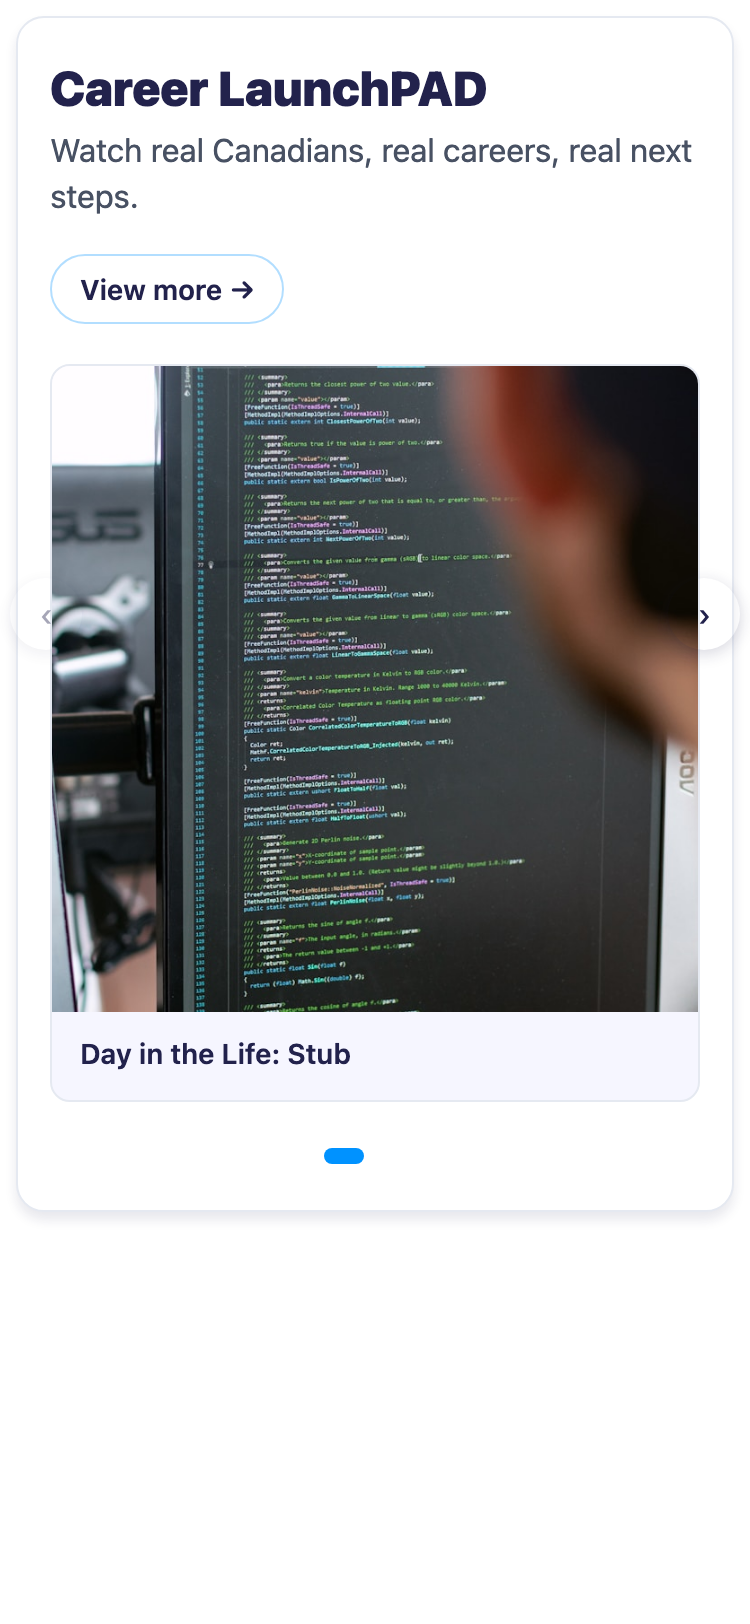
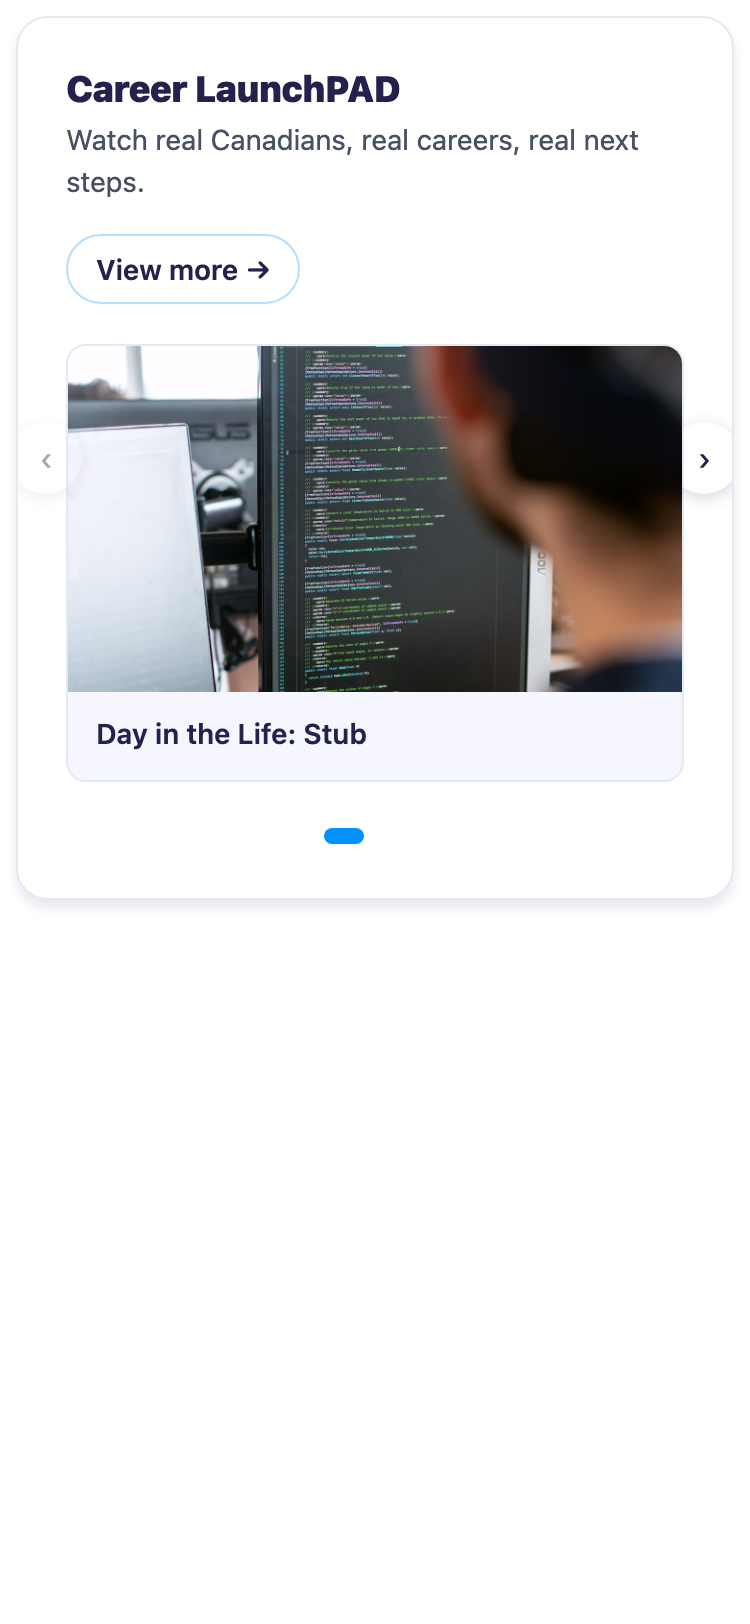
feat: make widget responsive — container queries, fluid type, configurable card aspect
Reverts card image aspect to 16:9 to fit dashboard reference (1309x336);
QR card letterboxes into the same 16:9 frame via a new .cl-card__media wrapper.
Adds container-type: inline-size + @container queries so the widget reacts to
its slot, not the viewport. Viewport @media fallback for older Safari via
@supports gating.
Header typography becomes fluid via clamp() + cqi units.
Exposes three CSS custom properties (--cl-card-aspect, --cl-max-height,
--cl-min-card-width) so the host can tune without editing widget internals.

diff --git a/docs/handoffs/myblueprint-widget/career-launchpad-widget.html b/docs/handoffs/myblueprint-widget/career-launchpad-widget.html
@@ -84,6 +84,13 @@
       color: #22224c;                    /* anchor-navy */
       max-width: 1200px;
       margin: 0 auto;
+      container-type: inline-size;
+      container-name: clw;
+      --cl-card-aspect: 16 / 9;
+      --cl-max-height: none;
+      --cl-min-card-width: 220px;
+      max-height: var(--cl-max-height);
+      overflow: hidden;
     }
 
     /* === Header === */
@@ -100,7 +107,7 @@
     }
     .cl-widget__header h2 {
       margin: 0 0 4px 0;
-      font-size: 24px;
+      font-size: clamp(18px, 1.5cqi + 12px, 24px);
       font-weight: 900;
       letter-spacing: -0.005em;
       line-height: 1.3;
@@ -108,7 +115,7 @@
     }
     .cl-widget__header p {
       margin: 0;
-      font-size: 16px;
+      font-size: clamp(14px, 1cqi + 10px, 16px);
       color: #485163;                    /* slate-ink */
       line-height: 1.45;
     }
@@ -158,16 +165,26 @@
     }
     .cl-card img {
       width: 100%;
-      aspect-ratio: 1 / 1;
+      aspect-ratio: var(--cl-card-aspect);
       object-fit: cover;
       display: block;
       background: #e5e9f1;               /* slate-frame-light placeholder while loading */
     }
-    .cl-card--qr img {
+    .cl-card--qr .cl-card__media {
+      aspect-ratio: var(--cl-card-aspect);
+      display: flex;
+      align-items: center;
+      justify-content: center;
+      background: #ffffff;               /* pure-white for QR contrast */
+      overflow: hidden;
+    }
+    .cl-card--qr .cl-card__media img {
+      height: 100%;
+      width: auto;
       aspect-ratio: 1 / 1;
       object-fit: contain;
-      padding: 16px;
-      background: #ffffff;               /* pure-white for QR contrast */
+      padding: 8px;
+      background: #ffffff;
     }
     .cl-card__label {
       display: block;
@@ -198,96 +215,194 @@
       border: 0;
     }
 
-    /* === Mobile (<768px) === */
-    @media (max-width: 767.98px) {
-      .cl-widget {
-        padding: 20px 16px;
-        border-radius: 14px;
+    /* === Layout switch: container-query path (Chrome 105+, Safari 16+, Firefox 110+) === */
+    @supports (container-type: inline-size) {
+      @container clw (max-width: 600px) {
+        .cl-widget {
+          padding: 20px 16px;
+          border-radius: 14px;
+        }
+
+        .cl-widget__track {
+          display: flex;
+          grid-template-columns: none;
+          gap: 0;
+          overflow-x: auto;
+          overflow-y: hidden;
+          scroll-snap-type: x mandatory;
+          scroll-behavior: smooth;
+          -webkit-overflow-scrolling: touch;
+          scrollbar-width: none;
+          margin: 0 -16px;
+          padding: 0 16px;
+        }
+        .cl-widget__track::-webkit-scrollbar {
+          display: none;
+        }
+
+        .cl-card {
+          flex: 0 0 100%;
+          scroll-snap-align: center;
+          scroll-snap-stop: always;
+        }
+
+        /* Show controls on narrow container.
+           The arrows overhang the card edges (matching the design mock); they are
+           absolutely positioned and vertically centered against the card image
+           area. The dots row sits below the card on its own line. */
+        .cl-widget__controls {
+          display: block;
+          margin-top: 16px;
+          text-align: center;
+        }
+
+        .cl-arrow {
+          position: absolute;
+          top: 50%;
+          transform: translateY(-50%);
+          width: 36px;
+          height: 36px;
+          border-radius: 50%;
+          background: #0092ff;             /* signal-blue */
+          color: #ffffff;
+          font-size: 20px;
+          line-height: 1;
+          display: inline-flex;
+          align-items: center;
+          justify-content: center;
+          box-shadow: 0 2px 8px rgba(34, 34, 76, 0.18);
+          z-index: 2;
+          transition: opacity 120ms ease, background-color 120ms ease;
+        }
+        .cl-arrow--prev {
+          left: -4px;                      /* overhangs the section's left edge */
+        }
+        .cl-arrow--next {
+          right: -4px;                     /* overhangs the section's right edge */
+        }
+        .cl-arrow:hover:not([disabled]) {
+          background: #0082e5;             /* signal-blue-deep */
+        }
+
+        .cl-dots {
+          display: inline-flex;
+          justify-content: center;
+          gap: 8px;
+        }
+        .cl-dot {
+          width: 8px;
+          height: 8px;
+          border-radius: 50%;
+          background: #aab7cb;             /* slate-echo */
+          transition: background-color 120ms ease, width 120ms ease;
+        }
       }
 
-      .cl-widget__track {
-        display: flex;
-        grid-template-columns: none;
-        gap: 0;
-        overflow-x: auto;
-        overflow-y: hidden;
-        scroll-snap-type: x mandatory;
-        scroll-behavior: smooth;
-        -webkit-overflow-scrolling: touch;
-        scrollbar-width: none;
-        margin: 0 -16px;
-        padding: 0 16px;
-      }
-      .cl-widget__track::-webkit-scrollbar {
-        display: none;
-      }
-
-      .cl-card {
-        flex: 0 0 100%;
-        scroll-snap-align: center;
-        scroll-snap-stop: always;
-      }
-
-      /* Show controls on mobile.
-         The arrows overhang the card edges (matching the design mock); they are
-         absolutely positioned and vertically centered against the card image
-         area. The dots row sits below the card on its own line. */
-      .cl-widget__controls {
-        display: block;
-        margin-top: 16px;
-        text-align: center;
-      }
-
-      .cl-arrow {
-        position: absolute;
-        top: 50%;
-        transform: translateY(-50%);
-        width: 36px;
-        height: 36px;
-        border-radius: 50%;
-        background: #0092ff;             /* signal-blue */
-        color: #ffffff;
-        font-size: 20px;
-        line-height: 1;
-        display: inline-flex;
-        align-items: center;
-        justify-content: center;
-        box-shadow: 0 2px 8px rgba(34, 34, 76, 0.18);
-        z-index: 2;
-        transition: opacity 120ms ease, background-color 120ms ease;
-      }
-      .cl-arrow--prev {
-        left: -4px;                      /* overhangs the section's left edge */
-      }
-      .cl-arrow--next {
-        right: -4px;                     /* overhangs the section's right edge */
-      }
-      .cl-arrow:hover:not([disabled]) {
-        background: #0082e5;             /* signal-blue-deep */
-      }
-
-      .cl-dots {
-        display: inline-flex;
-        justify-content: center;
-        gap: 8px;
-      }
-      .cl-dot {
-        width: 8px;
-        height: 8px;
-        border-radius: 50%;
-        background: #aab7cb;             /* slate-echo */
-        transition: background-color 120ms ease, width 120ms ease;
+      /* === Narrow container (<380px) — stack the header View-more button below the text === */
+      @container clw (max-width: 380px) {
+        .cl-widget__header {
+          flex-direction: column;
+          align-items: stretch;
+        }
+        .cl-widget__more {
+          align-self: flex-start;
+        }
       }
     }
 
-    /* === Narrow mobile (<480px) — stack the header View-more button below the text === */
-    @media (max-width: 479.98px) {
-      .cl-widget__header {
-        flex-direction: column;
-        align-items: stretch;
+    /* === Layout switch: viewport-query fallback (older Safari without container query support) === */
+    @supports not (container-type: inline-size) {
+      /* === Mobile (<768px) === */
+      @media (max-width: 767.98px) {
+        .cl-widget {
+          padding: 20px 16px;
+          border-radius: 14px;
+        }
+
+        .cl-widget__track {
+          display: flex;
+          grid-template-columns: none;
+          gap: 0;
+          overflow-x: auto;
+          overflow-y: hidden;
+          scroll-snap-type: x mandatory;
+          scroll-behavior: smooth;
+          -webkit-overflow-scrolling: touch;
+          scrollbar-width: none;
+          margin: 0 -16px;
+          padding: 0 16px;
+        }
+        .cl-widget__track::-webkit-scrollbar {
+          display: none;
+        }
+
+        .cl-card {
+          flex: 0 0 100%;
+          scroll-snap-align: center;
+          scroll-snap-stop: always;
+        }
+
+        /* Show controls on mobile.
+           The arrows overhang the card edges (matching the design mock); they are
+           absolutely positioned and vertically centered against the card image
+           area. The dots row sits below the card on its own line. */
+        .cl-widget__controls {
+          display: block;
+          margin-top: 16px;
+          text-align: center;
+        }
+
+        .cl-arrow {
+          position: absolute;
+          top: 50%;
+          transform: translateY(-50%);
+          width: 36px;
+          height: 36px;
+          border-radius: 50%;
+          background: #0092ff;             /* signal-blue */
+          color: #ffffff;
+          font-size: 20px;
+          line-height: 1;
+          display: inline-flex;
+          align-items: center;
+          justify-content: center;
+          box-shadow: 0 2px 8px rgba(34, 34, 76, 0.18);
+          z-index: 2;
+          transition: opacity 120ms ease, background-color 120ms ease;
+        }
+        .cl-arrow--prev {
+          left: -4px;                      /* overhangs the section's left edge */
+        }
+        .cl-arrow--next {
+          right: -4px;                     /* overhangs the section's right edge */
+        }
+        .cl-arrow:hover:not([disabled]) {
+          background: #0082e5;             /* signal-blue-deep */
+        }
+
+        .cl-dots {
+          display: inline-flex;
+          justify-content: center;
+          gap: 8px;
+        }
+        .cl-dot {
+          width: 8px;
+          height: 8px;
+          border-radius: 50%;
+          background: #aab7cb;             /* slate-echo */
+          transition: background-color 120ms ease, width 120ms ease;
+        }
       }
-      .cl-widget__more {
-        align-self: flex-start;
+
+      /* === Narrow mobile (<480px) — stack the header View-more button below the text === */
+      @media (max-width: 479.98px) {
+        .cl-widget__header {
+          flex-direction: column;
+          align-items: stretch;
+        }
+        .cl-widget__more {
+          align-self: flex-start;
+        }
       }
     }
 
@@ -368,8 +483,10 @@
       </li>
       <li class="cl-card cl-card--qr">
         <a href="https://career-launchpad-woad.vercel.app/?utm_source=myblueprint&amp;utm_medium=widget&amp;utm_campaign=career-launchpad-v1&amp;utm_content=qr-handoff" target="_blank" rel="noopener noreferrer">
[1 lines of base64/hex data omitted]
+          <div class="cl-card__media">
[1 lines of base64/hex data omitted]
                alt="QR code linking to Career LaunchPAD. URL: https://career-launchpad-woad.vercel.app/?utm_source=myblueprint&amp;utm_medium=widget&amp;utm_campaign=career-launchpad-v1&amp;utm_content=qr-handoff — scan or open on your phone to continue.">
+          </div>
           <span class="cl-card__label">Take it to your phone</span>
         </a>
       </li>

diff --git a/docs/handoffs/myblueprint-widget/README.md b/docs/handoffs/myblueprint-widget/README.md
@@ -40,6 +40,29 @@ On the myBlueprint student dashboard:
    CDN URLs. The actual image files for swapping are committed in this directory
    under `assets/`.
 
+## Integration knobs (CSS custom properties)
+
+The widget exposes three CSS custom properties on `.cl-widget` so you can tune it to your host slot without editing widget internals:
+
+| Property | Default | Purpose |
+|---|---|---|
+| `--cl-card-aspect` | `16 / 9` | Image aspect ratio for image cards; the QR card letterboxes to match. Set to `1 / 1` for square cards, `4 / 3` for taller, etc. |
+| `--cl-max-height` | `none` | Hard cap on the widget's height. If your slot pins a height, set this and the widget clips cleanly via `overflow: hidden`. |
+| `--cl-min-card-width` | `220px` | Documentation of the intended minimum card width before carousel mode kicks in. The actual breakpoint (`<600px` container width) is set in CSS. |
+
+Example override at the host level:
+
+```css
+.activitiesWidget .cl-widget {
+  --cl-card-aspect: 4 / 3;
+  --cl-max-height: 360px;
+}
+```
+
+The widget is a **CSS container** (`container-type: inline-size; container-name: clw`), so its layout responds to whatever width its parent gives it — not the viewport. Putting the widget in a 600px-wide column on a 1920px desktop will trigger carousel mode, just like a 600px viewport would.
+
+**Browser support:** container queries are Chrome 105+, Safari 16+, Firefox 110+. Older Safari falls back to viewport `@media` queries automatically.
+
 ## The 4 URLs
 
 All three carry UTM parameters for GA4 attribution. The QR code encodes the
